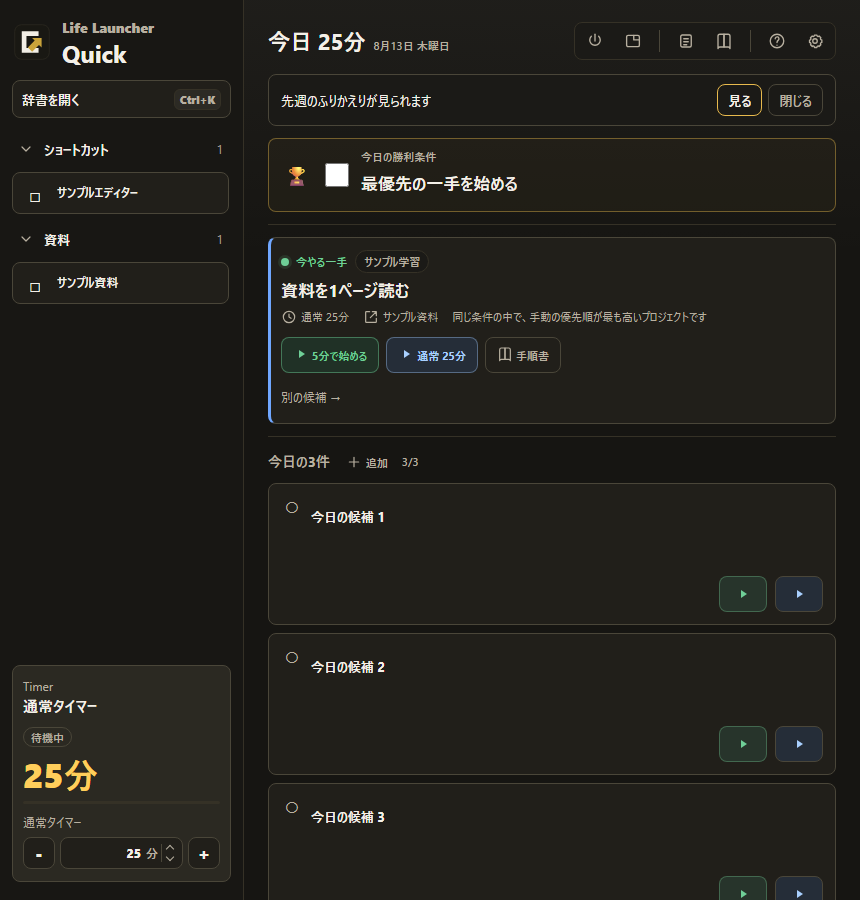
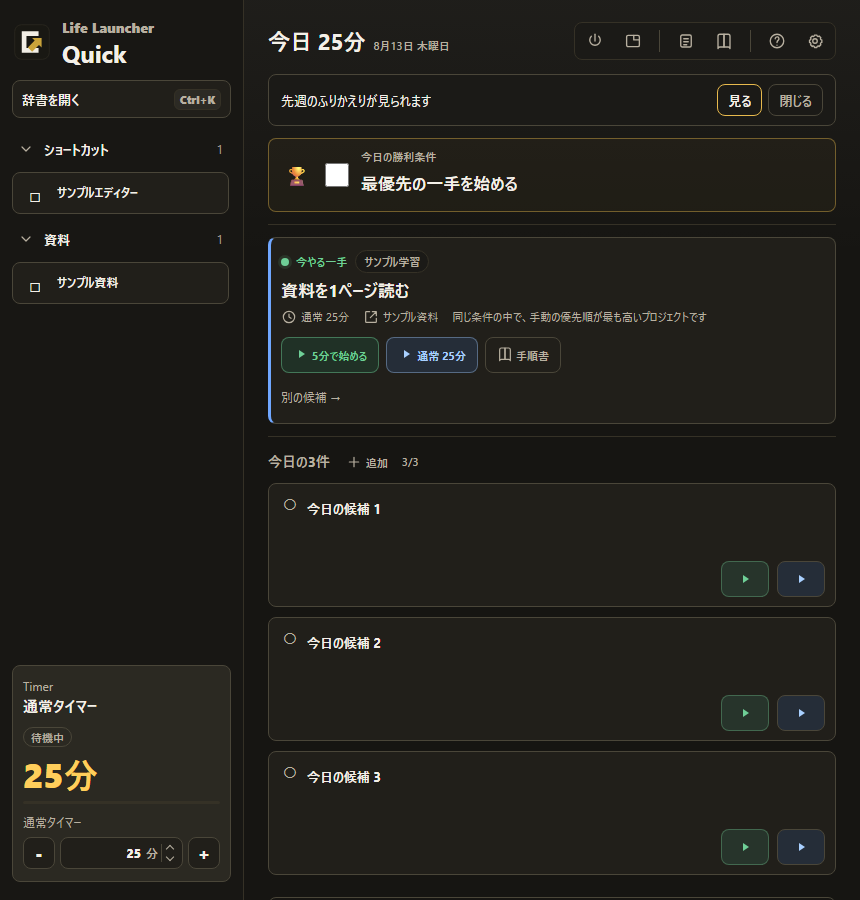
fix: refine dictionary focus and Today card density

diff --git a/src/components/DictionaryWindow.tsx b/src/components/DictionaryWindow.tsx
@@ -1134,9 +1134,29 @@ export function DictionaryWindow() {
         event.preventDefault();
         return;
       }
-      if (event.isComposing || parity.blocking) return;
+      if (event.isComposing || parity.blocking || !document.hasFocus()) return;
       const target = event.target instanceof HTMLElement ? event.target : null;
       const searchHasFocus = target === searchInputRef.current;
+      const arrowDirection =
+        event.key === "ArrowLeft"
+          ? "left"
+          : event.key === "ArrowRight"
+            ? "right"
+            : event.key === "ArrowUp"
+              ? "up"
+              : event.key === "ArrowDown"
+                ? "down"
+                : null;
+
+      if (
+        arrowDirection &&
+        !target?.closest("button, input, select, textarea, [contenteditable='true']")
+      ) {
+        event.preventDefault();
+        if (selectedButtonId) moveTileFocus(selectedButtonId, arrowDirection);
+        else focusFirstTile();
+        return;
+      }
 
       if (event.key === "Tab" && event.ctrlKey) {
         event.preventDefault();
@@ -1175,11 +1195,14 @@ export function DictionaryWindow() {
     window.addEventListener("keydown", onKeyDown);
     return () => window.removeEventListener("keydown", onKeyDown);
   }, [
+    focusFirstTile,
     hideWindow,
+    moveTileFocus,
     runButton,
     searchQuery,
     selectPageByOffset,
     selectedButton,
+    selectedButtonId,
     parity.blocking,
     cancelTilePointer,
   ]);

diff --git a/src/styles.css b/src/styles.css
@@ -7215,7 +7215,7 @@ input[type="number"]::-webkit-inner-spin-button {
 .todayGrid {
   display: grid;
   grid-template-columns: repeat(3, minmax(0, 1fr));
-  gap: 8px;
+  gap: 10px;
 }
 
 .todayGrid > .quietText {
@@ -7223,15 +7223,15 @@ input[type="number"]::-webkit-inner-spin-button {
 }
 
 .todayRow {
-  min-height: 128px;
+  min-height: 104px;
   display: grid;
   grid-template-columns: 22px minmax(0, 1fr);
   grid-template-rows: minmax(0, 1fr) auto;
   align-items: start;
-  gap: 8px;
+  gap: 6px;
   border: 1px solid var(--line);
   border-radius: var(--radius);
-  padding: 12px;
+  padding: 9px 10px;
   background: var(--surface);
 }
 
@@ -7261,7 +7261,7 @@ input[type="number"]::-webkit-inner-spin-button {
 .todayItemCopy {
   grid-column: 2;
   grid-row: 1;
-  min-height: 68px;
+  min-height: 46px;
   display: flex;
   align-content: start;
   align-items: flex-start;
@@ -7277,9 +7277,9 @@ input[type="number"]::-webkit-inner-spin-button {
 
 .todayTextButton,
 .todayEditInput {
-  min-height: 42px;
+  min-height: 32px;
   flex-basis: 100%;
-  padding-block: 4px;
+  padding-block: 2px;
   font-size: var(--dashboard-font-body);
   font-weight: 650;
 }
@@ -7474,6 +7474,7 @@ input[type="number"]::-webkit-inner-spin-button {
   font-weight: 600;
 }
 
+.todayBuilderActions .moveTodayButton,
 .nextStepRow .moveTodayButton,
 .inboxRow .moveTodayButton {
   opacity: 1;

diff --git a/tests/visual/phase6-main.spec.ts b/tests/visual/phase6-main.spec.ts
@@ -195,6 +195,10 @@ test("Today Builder saves above five, paginates, deletes, and restores after rel
   await page.locator(".todayBuilderDisclosure").click();
   await expect(page.locator("[data-today-builder-index]")).toHaveCount(5);
   await expect(page.locator(".todayBuilderPagination")).toContainText("1 / 2");
+  const candidateAdd = page.locator(".todayBuilderAddButton").first();
+  await expect(candidateAdd).toHaveClass(/moveTodayButton/);
+  await expect(candidateAdd).toBeVisible();
+  await expect(candidateAdd).toHaveCSS("opacity", "1");
 
   const builder = page.locator(".todayBuilderBand");
   await builder.getByRole("button", { name: "今日を組み立てるに次の一手を追加" }).click();

diff --git a/src/App.tsx b/src/App.tsx
@@ -8081,7 +8081,7 @@ function DashboardApp() {
                                 <option value="inbox">やりたいこと</option>
                               </select>
                               <button
-                                className="primaryButton todayBuilderAddButton"
+                                className="moveTodayButton todayBuilderAddButton"
                                 onClick={() =>
                                   applyTodayBuilderCandidate(
                                     candidate,

diff --git a/tests/visual/phase6-dictionary.spec.ts b/tests/visual/phase6-dictionary.spec.ts
@@ -134,6 +134,8 @@ test("dictionary opens on a tile and arrow keys move immediately", async ({ page
   await expect(tiles.first()).toBeFocused();
   const firstBox = await tiles.first().boundingBox();
   expect(firstBox).not.toBeNull();
+  await page.evaluate(() => (document.activeElement as HTMLElement | null)?.blur());
+  await expect(page.locator(".dictionaryTile:focus")).toHaveCount(0);
   await page.keyboard.press("ArrowRight");
   await expect(tiles.nth(1)).toBeFocused();
   await page.keyboard.press("ArrowDown");

diff --git a/docs/spec/current-spec.md b/docs/spec/current-spec.md
@@ -215,6 +215,7 @@ Main Window
 - プロジェクトの次の一手、やりたいこと、勝利条件、最近の記録等から候補を構成する。
 - 内部名のInboxではなく「やりたいこと」と表示する。
 - 候補を「今日の3件」「今日の勝利条件」「やりたいこと」へ追加できる。
+- 候補行の「追加」は「今日へ」と同じ緑のpositive controlとして表示する。
 - 今日の3件が3件の場合は制限を超えて追加しない。
 - 見出し内の「追加」は「次の一手を追加」詳細ダイアログを開く。展開本文には重複した追加行を置かない。
 - 候補はD&Dと右クリックの上下移動で並べ替えられる。
@@ -227,6 +228,7 @@ Main Window
 
 - 当日に取り組む項目は最大3件。
 - 見出しの隣に `+ 追加`、`N/3` の順で表示する。
+- 3件時は横3列を保ち、常設の開始操作を収めながら過剰な高さと余白を持たないcompact cardで表示する。
 - 3件制限を解除する設定や回避経路は持たない。
 - 未完了項目を翌日へ自動繰り越ししない。
 - チェックボックスと項目名を表示する。
@@ -340,7 +342,8 @@ Main Window
 - ゴーストはポインターから約10pxずらす。
 - 別ページタブへ一定時間ホバーするとページを切り替える。
 - タイルはLeft / Rightで同じvisual row、Up / Downで最寄りのvisual rowへfocusを移す。
-- 辞書を開いた直後は最初のタイルへfocusし、追加操作なしで矢印キー移動を始められる。文字入力は検索欄へ送る。
+- 辞書を開いた直後は最初のタイルへfocusする。辞書ウィンドウがfocus中かつ入力・タブ・ボタン操作中でなければ、余白からも選択中タイルの矢印移動を続けられる。
+- 検索入力中の矢印キーと、メイン画面・他アプリのキー操作は奪わない。文字入力は検索欄へ送る。
 - 最上段タイルのUpは選択中categoryへ戻り、categoryのLeft / Rightは選択を変えずfocusだけを移す。
 - categoryはEnter / Spaceで選択し、Downで最寄りのタイルへ移動する。
 - 検索入力中の矢印キーは通常のeditable cursor操作を優先する。

diff --git a/docs/phase6/workreports/p6-03-report.md b/docs/phase6/workreports/p6-03-report.md
@@ -46,7 +46,7 @@ P6.2 Quick and Dictionary reveal eligibility, context-menu ordering, generic err
 
 ## Dictionary keyboard
 
-The dictionary now opens with focus on its first tile, so arrow navigation works immediately without a preparatory click. Category roving focus, Left / Right navigation, Down-to-grid, responsive tile arrows, Enter launch, type-to-search, keyboard context menu, and Escape behavior remain covered. A 120-item synthetic grid verifies bounded interaction under a larger dataset.
+The dictionary now opens with focus on its first tile. While the Dictionary window owns OS focus, arrow navigation also continues from non-interactive blank areas; inputs, tabs, buttons, the Main window, and other applications retain their own keys. Category roving focus, Left / Right navigation, Down-to-grid, responsive tile arrows, Enter launch, type-to-search, keyboard context menu, and Escape behavior remain covered. A 120-item synthetic grid verifies bounded interaction under a larger dataset.
 
 ## Human review corrections
 
@@ -55,6 +55,8 @@ The dictionary now opens with focus on its first tile, so arrow navigation works
 - Restored the detailed NextStep add dialog for the NextStep header, its context menu, and the Today Builder header.
 - Matched the empty `次の一手を書く` label to the size and weight of populated NextStep text.
 - Removed a double focus reset that could cancel the first Dictionary arrow-key move.
+- Kept Dictionary arrow navigation active after its internal tile focus is cleared, without intercepting editable controls or other windows.
+- Matched Today Builder candidate actions to the green `今日へ` control and reduced Today3 card height and internal whitespace.
 
 ## Category bug
 
